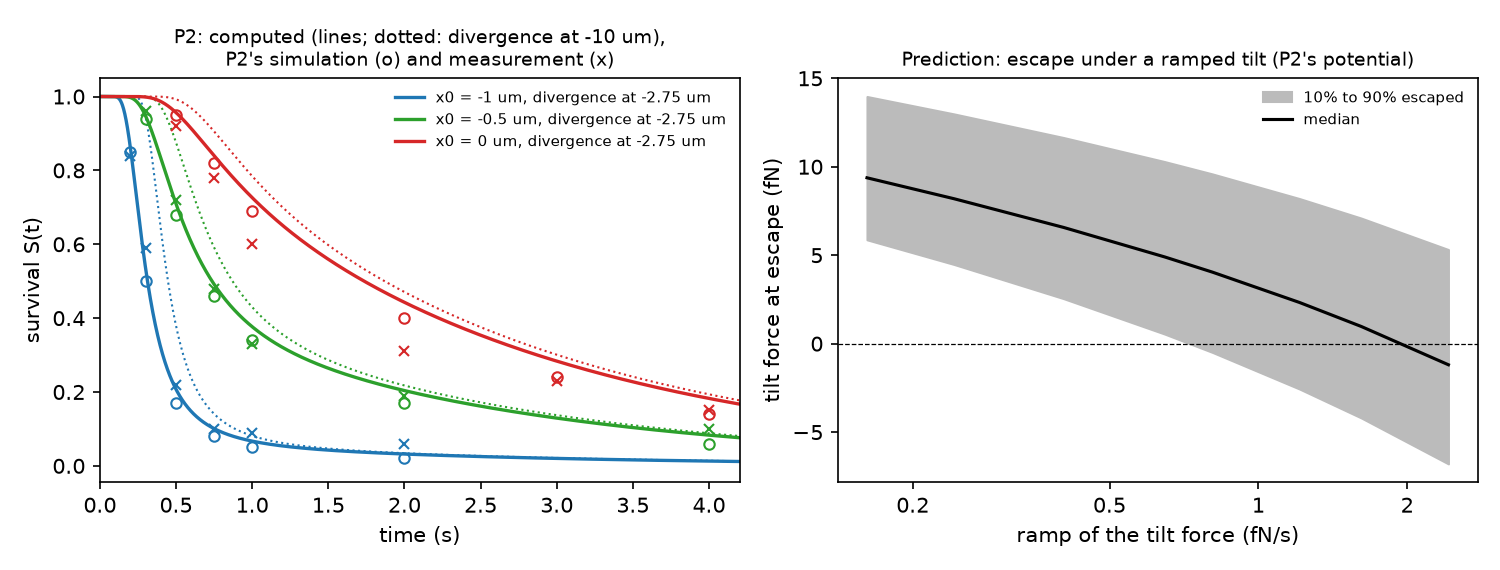
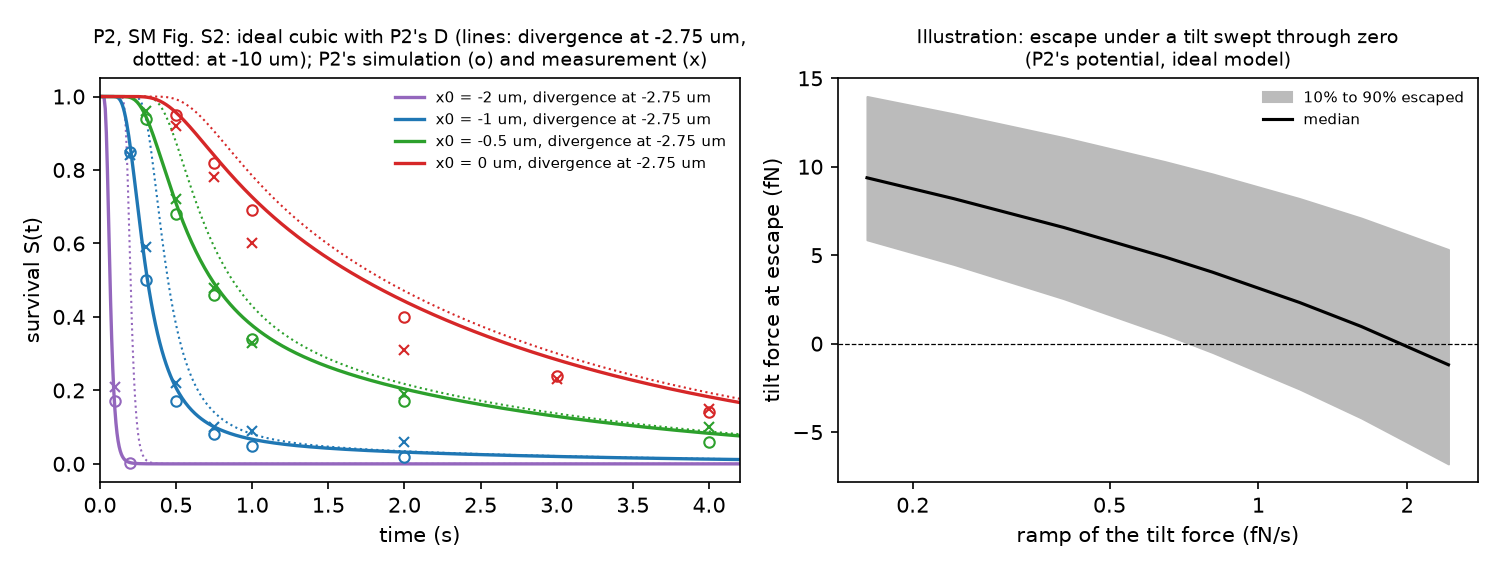
Revise the Brno case after the second model's review
All four simulated survival curves, with error summaries for both
divergence points and the best D for -10 um; the stated criterion is
reported as not reproduced, without claiming which boundary was used.
Reading B is presented as a hypothesis. P1's 8 s limit is computed: under
reading B the ideal model gives mean/SD 2.300, P1's simulation 2.32. The
lambda0 D is described as reconstructing P2's friction. The swept-tilt
section is an illustration in the ideal model, with times to the 90%
point and the shifts of the median.

diff --git a/cases/brno_cubic_trap/reproduce.py b/cases/brno_cubic_trap/reproduce.py
@@ -9,12 +9,13 @@ Model (P1 Eq. 1, P2 Eq. 1): overdamped bead, V(x) = mu x^3 / 3, D = kT / gamma.
 Numbers labelled "printed" or "read" come from the papers (figure readings to the stated
 precision); everything else is computed here with kramers' quadrature and Fokker-Planck solvers.
 
-    python cases/brno_cubic_trap/reproduce.py        (about two minutes; writes figure.png)
+    python cases/brno_cubic_trap/reproduce.py        (a few minutes; writes figure.png)
 """
 
 from pathlib import Path
 
 import numpy as np
+from scipy.optimize import minimize_scalar
 
 from kramers.formulas import fold_decay_rate, ramped_fold_switching
 from kramers.solvers import FirstPassage1D, fokker_planck
@@ -28,10 +29,23 @@ def moments(mu, x0, x_abs, D=1.0):
     return fp.moments(x0, n=2).value
 
 
-def survival(mu, D, x0, x_abs, t_end):
-    sol = fokker_planck.solve(lambda x: -D * mu * x * x, D, (x_abs, 3.0), left="absorbing", right="reflecting",
+def survival(mu, x0, x_abs, t_end):
+    """S(t) at D = 1; for another D, S(t; D) = S(D t; 1) (time scales with 1/D at fixed geometry)."""
+    sol = fokker_planck.solve(lambda x: -mu * x * x, 1.0, (x_abs, 3.0), left="absorbing", right="reflecting",
                               x0=x0, t_end=t_end, n_cells=2000, dt=t_end / 3000)
     return sol.t, sol.survival
+
+
+def censored(mu, D, x0, x1, t_cut):
+    """Mean and mean/SD of tau(x0 -> x1) among passages completed by t_cut (unfinished runs discarded),
+    and the fraction completed."""
+    sol = fokker_planck.solve(lambda x: -D * mu * x * x, D, (x1, 2.5), left="absorbing", right="reflecting",
+                              x0=x0, t_end=t_cut, n_cells=2000, dt=t_cut / 4000)
+    dF = np.diff(sol.absorbed_left)
+    tm = 0.5 * (sol.t[1:] + sol.t[:-1])
+    F = dF.sum()
+    m1, m2 = (tm * dF).sum() / F, (tm * tm * dF).sum() / F
+    return m1, m1 / np.sqrt(m2 - m1 * m1), F
 
 
 # ---------------------------------------------------------------- P1, Sci. Rep. 2017
@@ -39,6 +53,7 @@ print("P1. x0 = 1.2 um (Fig. 4; Fig. 1 marks about 1.47), x1 = -2.1 um, mu3 = 6.
 print("    Measured (Fig. 4, read; N = 26): <tau(x0->0)> = 1.16 +- 0.14 s, <tau(x0->x1)> = 3.61 +- 0.29 s, R = 0.32 +- 0.05,")
 print("    mean/SD of tau(x0->x1) = 2.3 +- 1.6; their simulation at these points: 1.62 (2.32 cut at 8 s).")
 D_stokes = KT / (6 * np.pi * 0.95e-3 * 0.497e-6) * 1e12  # um^2/s: water at 22 C assumed; radius 0.497 um printed
+print("\n    Values below are for the ideal model with no time limit, unless marked.")
 print("\n    Reading A: mu3 is the potential itself; D is free.")
 for x0 in (1.2, 1.47):
     t0, _ = moments(6.65, x0, 0.0)
@@ -46,14 +61,25 @@ for x0 in (1.2, 1.47):
     print(f"      x0 = {x0}: R = {t0 / t1:.3f}, mean/SD = {t1 / np.sqrt(s1 - t1 * t1):.3f}; the measured means need "
           f"D = {t0 / 1.16:.3f} +- {0.14 / 1.16 * t0 / 1.16:.3f} and {t1 / 3.61:.3f} +- {0.29 / 3.61 * t1 / 3.61:.3f} um^2/s "
           f"(a wall factor of {D_stokes / (t1 / 3.61):.1f} against the Stokes value {D_stokes:.3f})")
-print("\n    Reading B (P1 Methods: the drift was measured near the wall, the wall factor gamma_c enters only the noise):")
-print("    drift coefficient kappa = 6.65 x D_Stokes fixed; D = D_Stokes / gamma_c; effective mu = 6.65 gamma_c.")
+print("\n    Reading B, a calibration hypothesis: IF the printed 6.65 is the measured drift coefficient kappa divided by")
+print("    D_Stokes, and the wall factor gamma_c enters only the noise (as P1 Methods suggests), then")
+print("    D = D_Stokes / gamma_c and the effective mu = 6.65 gamma_c. (Fig. 1 calls 6.65 the potential coefficient,")
+print("    which is reading A; the paper does not say enough to choose.)")
 print("      gamma_c   <tau(x0->0)>   <tau(x0->x1)>    R      mean/SD    (x0 = 1.2; times scale with the assumed D_Stokes)")
 for gc in (2.0, 3.0, 4.2, 4.6):
     t0, _ = moments(6.65 * gc, 1.2, 0.0, D_stokes / gc)
     t1, s1 = moments(6.65 * gc, 1.2, -2.1, D_stokes / gc)
     print(f"        {gc:3.1f}       {t0:6.3f} s       {t1:6.3f} s      {t0 / t1:.3f}    {t1 / np.sqrt(s1 - t1 * t1):.3f}")
 print("    Asymptotic values for distant points (P3 Eqs. 27, 32): R = 1/3, mean/SD = sqrt(3) = 1.732.")
+print("\n    With P1's 8 s limit (runs not finished by 8 s discarded; our assumption about the measurement), x0 = 1.2:")
+t1A, _ = moments(6.65, 1.2, -2.1)
+for label, mu_, D_ in (("reading A, D from the measured <tau(x0->x1)>", 6.65, t1A / 3.61),
+                       ("reading B, gamma_c = 4.6", 6.65 * 4.6, D_stokes / 4.6)):
+    m0, _, F0 = censored(mu_, D_, 1.2, 0.0, 8.0)
+    m1, r, F1 = censored(mu_, D_, 1.2, -2.1, 8.0)
+    print(f"      {label}: <tau(x0->0)> = {m0:.3f} s, <tau(x0->x1)> = {m1:.3f} s, R = {m0 / m1:.3f}, "
+          f"mean/SD = {r:.3f}; finished by 8 s: {F0:.3f} and {F1:.3f}")
+print("    P1's simulation with the 8 s limit: mean/SD = 2.32; measured: 1.16 s, 3.61 s, R = 0.32, mean/SD = 2.3.")
 
 # ---------------------------------------------------------------- P2, PRL 2018
 print("\nP2. mu = 4.07 +- 0.03 kT/um^3 and lambda0 = 0.44 +- 0.01 1/s (printed); D not printed.")
@@ -61,39 +87,62 @@ E0 = fold_decay_rate(0.0)
 D2 = 0.44 / (E0 * 4.07 ** (2.0 / 3.0))
 print(f"    lambda0 = E0(0) D mu^(2/3) with E0(0) = {E0:.6f} gives D = {D2:.4f} +- {0.01 / 0.44 * D2:.4f} um^2/s "
       f"(Stokes, 1 um bead, water, 22 C: {KT / (6 * np.pi * 0.95e-3 * 0.5e-6) * 1e12:.3f}).")
-sims = {  # SM Fig. S2, simulated (dashed) and measured S(t), read from the plot to +-0.005
+sims = {  # SM Fig. S2, simulated (dashed) and measured S(t), read from the plot to +-0.005 (nan: not read)
+    -2.0: ((0.1, 0.2), (0.17, 0.003), (0.21, np.nan)),
     -1.0: ((0.2, 0.3, 0.5, 0.75, 1.0, 2.0), (0.85, 0.50, 0.17, 0.08, 0.05, 0.02), (0.84, 0.59, 0.22, 0.10, 0.09, 0.06)),
     -0.5: ((0.3, 0.5, 0.75, 1.0, 2.0, 4.0), (0.94, 0.68, 0.46, 0.34, 0.17, 0.06), (0.96, 0.72, 0.48, 0.33, 0.19, 0.10)),
     0.0: ((0.5, 0.75, 1.0, 2.0, 3.0, 4.0), (0.95, 0.82, 0.69, 0.40, 0.24, 0.14), (0.92, 0.78, 0.60, 0.31, 0.23, 0.15)),
 }
-curves = {}
-print("    Survival S(t) with divergence counted at a = -10 um (as we read the text) and at a = -2.75 um (SM Fig. S3):")
+unit = {a: {x0: survival(4.07, x0, a, 4.0) for x0 in sims} for a in (-10.0, -2.75)}  # D = 1
+
+
+def S_at(a, x0, t, D):
+    tt, S = unit[a][x0]
+    return np.interp(D * np.asarray(t), tt, S)
+
+
+def errors(a, D):
+    d = np.concatenate([S_at(a, x0, t, D) - np.array(s_sim) for x0, (t, s_sim, _) in sims.items()])
+    return float(np.sqrt(np.mean(d * d))), float(np.max(np.abs(d)))
+
+
+print("    Survival S(t) with divergence counted at a = -10 um (as the SM states) and at a = -2.75 um:")
 print("      x0     t(s)   a=-10    a=-2.75    P2 sim.   P2 meas.")
 for x0, (t, s_sim, s_meas) in sims.items():
-    tt, S10 = survival(4.07, D2, x0, -10.0, 6.0)
-    tt2, S275 = survival(4.07, D2, x0, -2.75, 6.0)
-    curves[x0] = (tt2, S275, tt, S10)
-    for ti, a, b, c, d in zip(t, np.interp(t, tt, S10), np.interp(t, tt2, S275), s_sim, s_meas, strict=True):
-        print(f"      {x0:5.2f}  {ti:4.2f}   {a:.3f}     {b:.3f}      {c:.2f}      {d:.2f}")
+    for ti, a, b, c, d in zip(t, S_at(-10.0, x0, t, D2), S_at(-2.75, x0, t, D2), s_sim, s_meas, strict=True):
+        print(f"      {x0:5.2f}  {ti:4.2f}   {a:.3f}     {b:.3f}      {c:.3f}     {d:.2f}")
+for a in (-2.75, -10.0):
+    rms, mx = errors(a, D2)
+    print(f"    Against all {sum(len(v[0]) for v in sims.values())} simulated points, a = {a:g}, D = {D2:.4f}: "
+          f"RMS error {rms:.3f}, largest {mx:.3f}")
+best = minimize_scalar(lambda D: errors(-10.0, D)[0], bounds=(0.2, 2.0), method="bounded", options={"xatol": 1e-6})
+rms, mx = errors(-10.0, best.x)
+print(f"    a = -10 with the D that fits best ({best.x:.3f} um^2/s): RMS error {rms:.3f}, largest {mx:.3f}; "
+      f"at x0 = -2, t = 0.1 s it gives S = {float(S_at(-10.0, -2.0, 0.1, best.x)):.2f} against 0.17.")
 
 # ---------------------------------------------------------------- the ramp
 ell = 4.07 ** (-1.0 / 3.0)  # um
 tau = ell * ell / D2  # s
 f_unit = KT / (ell * 1e-6) * 1e15  # fN
 y_esc = 2.75 / ell
-print(f"\nThe ramp nobody has measured, in P2's potential: tilt lowered linearly to zero (the fold) at scaled rate Sigma.")
-print(f"    Units: length {ell:.3f} um, time {tau:.3f} s, tilt force {f_unit:.2f} fN; start 4 units from the fold "
-      f"({4 * f_unit:.1f} fN, well at {2 * ell:.2f} um, inside the calibrated range); escape at -2.75 um.")
-print("      Sigma   tilt at which 10% / 50% / 90% have escaped (fN)   quasi-static median   ramp (fN/s)   run length (s)")
+print("\nAn illustrative extension not studied in P1-P3: V(x) = mu x^3/3 - f(t) x, with the tilt f swept linearly")
+print("through zero (the fold) at scaled rate Sigma, in P2's potential and with P2's D.")
+print(f"    Units: length {ell:.4f} um, time {tau:.4f} s, tilt force {f_unit:.3f} fN; start 4 units from the fold "
+      f"({4 * f_unit:.1f} fN: well at {2 * ell:.3f} um, saddle at {-2 * ell:.3f} um, barrier {4 / 3 * 8:.2f} kT), "
+      "from the quasi-stationary density; escape at -2.75 um.")
+print("      Sigma   ramp (fN/s)   tilt at 10% / 50% / 90% escaped (fN)   quasi-static median (fN)   median shift   "
+      "time to the 90% point (s)")
 u_grid = np.linspace(4.0, 0.0, 401)
 lam = fold_decay_rate(u_grid)
 for sigma in (0.02, 0.05, 0.1, 0.3):
     u = ramped_fold_switching(sigma, (0.1, 0.5, 0.9), u0=4.0, y_escape=y_esc)
     H = np.concatenate([[0.0], np.cumsum(0.5 * (lam[1:] + lam[:-1]) * (-np.diff(u_grid)))]) / sigma
     qs = float(np.interp(np.log(2.0), H, u_grid)) if H[-1] > np.log(2.0) else float("nan")
-    print(f"      {sigma:5.2f}    {u[0] * f_unit:6.2f} / {u[1] * f_unit:6.2f} / {u[2] * f_unit:6.2f}               "
-          f"{qs * f_unit:6.2f}            {sigma * f_unit / tau:.3f}         {4.0 / sigma * tau:.0f}")
-print("    Negative tilt: past the fold. The quasi-static column integrates the frozen escape rate (entry K0024 with K0008).")
+    print(f"      {sigma:5.2f}   {sigma * f_unit / tau:6.3f}      {u[0] * f_unit:6.2f} / {u[1] * f_unit:6.2f} / "
+          f"{u[2] * f_unit:6.2f}             {qs * f_unit:6.2f}               {(u[1] - qs) / qs:+7.1%}         "
+          f"{(4.0 - u[2]) / sigma * tau:6.1f}")
+print("    Negative tilt: past the fold. The quasi-static column integrates the frozen escape rate (K0024 with K0008).")
+print("    The tilted potentials were not calibrated in P2; whether the trap can sweep the tilt this way is untested.")
 
 # ---------------------------------------------------------------- figure
 try:
@@ -101,17 +150,18 @@ try:
     matplotlib.use("Agg")
     import matplotlib.pyplot as plt
     fig, ax = plt.subplots(1, 2, figsize=(10, 3.8))
-    colors = {-1.0: "#1f77b4", -0.5: "#2ca02c", 0.0: "#d62728"}
+    colors = {-2.0: "#9467bd", -1.0: "#1f77b4", -0.5: "#2ca02c", 0.0: "#d62728"}
+    tfig = np.linspace(0.0, 4.2, 600)
     for x0, (t, s_sim, s_meas) in sims.items():
-        tt2, S275, tt, S10 = curves[x0]
-        ax[0].plot(tt2, S275, color=colors[x0], lw=1.6, label=f"x0 = {x0:g} um, divergence at -2.75 um")
-        ax[0].plot(tt, S10, color=colors[x0], lw=1.0, ls=":")
+        ax[0].plot(tfig, S_at(-2.75, x0, tfig, D2), color=colors[x0], lw=1.6, label=f"x0 = {x0:g} um, divergence at -2.75 um")
+        ax[0].plot(tfig, S_at(-10.0, x0, tfig, D2), color=colors[x0], lw=1.0, ls=":")
         ax[0].plot(t, s_sim, "o", mfc="none", color=colors[x0], ms=5)
         ax[0].plot(t, s_meas, "x", color=colors[x0], ms=5)
     ax[0].set_xlim(0, 4.2)
     ax[0].set_xlabel("time (s)")
     ax[0].set_ylabel("survival S(t)")
-    ax[0].set_title("P2: computed (lines; dotted: divergence at -10 um),\nP2's simulation (o) and measurement (x)", fontsize=9)
+    ax[0].set_title("P2, SM Fig. S2: ideal cubic with P2's D (lines: divergence at -2.75 um,\n"
+                    "dotted: at -10 um); P2's simulation (o) and measurement (x)", fontsize=9)
     ax[0].legend(fontsize=7, frameon=False)
     sig = np.array([0.02, 0.03, 0.05, 0.08, 0.1, 0.15, 0.2, 0.3])
     q = np.array([ramped_fold_switching(s, (0.1, 0.5, 0.9), u0=4.0, y_escape=y_esc) for s in sig]) * f_unit
@@ -124,7 +174,7 @@ try:
     ax[1].minorticks_off()
     ax[1].set_xlabel("ramp of the tilt force (fN/s)")
     ax[1].set_ylabel("tilt force at escape (fN)")
-    ax[1].set_title("Prediction: escape under a ramped tilt (P2's potential)", fontsize=9)
+    ax[1].set_title("Illustration: escape under a tilt swept through zero\n(P2's potential, ideal model)", fontsize=9)
     ax[1].legend(fontsize=7, frameon=False)
     fig.tight_layout()
     out = Path(__file__).with_name("figure.png")

diff --git a/cases/brno_cubic_trap/case.md b/cases/brno_cubic_trap/case.md
@@ -1,103 +1,139 @@
 # Case: a bead in a cubic optical potential (Brno, Olomouc, Prague)
 
-Two experiments by the groups of P. Zemánek (Institute of Scientific Instruments, Brno),
-R. Filip (Palacký University, Olomouc) and A. Ryabov (Charles University, Prague) are
-the only ones we found that build the potential of a noisy saddle-node exactly at its
-bifurcation, V(x) = μx³/3, around a microsphere in optical tweezers:
+Two related experiments by the groups of P. Zemánek (Institute of Scientific
+Instruments, Brno), R. Filip (Palacký University, Olomouc) and A. Ryabov (Charles
+University, Prague) approximate the cubic normal form near an inflection,
+V(x) = μx³/3, around a microsphere in optical tweezers:
 
 - **P1.** M. Šiler, P. Jákl, O. Brzobohatý, A. Ryabov, R. Filip and P. Zemánek,
   *Sci. Rep.* **7**, 1697 (2017), doi:10.1038/s41598-017-01848-4 (open access).
 - **P2.** M. Šiler, L. Ornigotti, O. Brzobohatý, P. Jákl, A. Ryabov, V. Holubec,
   P. Zemánek and R. Filip, *Phys. Rev. Lett.* **121**, 230601 (2018),
-  doi:10.1103/PhysRevLett.121.230601; arXiv:1803.07833v2 and its supplement.
+  doi:10.1103/PhysRevLett.121.230601; arXiv:1803.07833v2 and its supplement (SM).
 - Theory: A. Ryabov, P. Zemánek and R. Filip, *Phys. Rev. E* **94**, 042108 (2016)
   (P3), whose Eq. (6) is the exact mean first-passage time used below.
 
-Everything below is recomputed from the printed parameters by `reproduce.py` (about
-two minutes); its output is in `output.txt`. Numbers read from figures carry the
-precision of the reading. **This page is a draft for the authors to correct. Nothing
-here says their analysis is wrong; where we disagree, the most likely reason is that
-we misread the set-up, and we say what we assumed.**
+Everything below is recomputed from the printed parameters by `reproduce.py` (a few
+minutes); its output is in `output.txt`. Numbers read from figures carry the precision
+of the reading. Computed values are for the ideal model, an overdamped bead with
+constant D in an exact cubic potential, and are numerically converged within that
+model; nothing is fitted to the data unless the text says so. **This page is a draft
+for the authors to correct. Where our numbers differ from theirs, the likeliest reason
+is a detail of the set-up that we have not reconstructed; we say what we assumed.**
 
-## 1. What P1 measured, and the exact quadrature at the experimental points
+## 1. P1: the mean first-passage times at the experimental points
 
 P1 releases the bead at x0 = 1.2 µm (Fig. 4; Fig. 1 marks about 1.47 µm) and records
-the first passages to 0 and to x1 = −2.1 µm, with μ3 = 6.65 ± 0.05 kT µm⁻³. From the
-26 points in Fig. 4: ⟨τ(x0→0)⟩ = 1.16 ± 0.14 s, ⟨τ(x0→x1)⟩ = 3.61 ± 0.29 s, ratio
-R = 0.32 ± 0.05 (printed), mean/SD of τ(x0→x1) = 2.3 ± 1.6 (printed). P1 compares R
-with 1/3 and mean/SD with √3, the values for distant points (P3 Eqs. 27, 32), and with
-simulations.
+the first passages to 0 and to x1 = −2.1 µm, with μ3 = 6.65 ± 0.05 kT µm⁻³. From the 26
+points in Fig. 4: ⟨τ(x0→0)⟩ = 1.16 ± 0.14 s and ⟨τ(x0→x1)⟩ = 3.61 ± 0.29 s; printed:
+R = ⟨τ(x0→0)⟩/⟨τ(x0→x1)⟩ = 0.32 ± 0.05 and mean/SD of τ(x0→x1) = 2.3 ± 1.6. Runs lasted
+8 s. P1 compares R with 1/3 and mean/SD with √3, the values for distant points (P3
+Eqs. 27, 32), and with simulations, which give mean/SD = 1.62 without a time limit and
+2.32 with the 8 s limit.
 
-P3's Eq. (6), evaluated exactly at the experimental points (quadrature solver of this
-package, accurate to about 1e-12):
+The printed 6.65 can be read in two ways, and the paper does not say enough to choose:
 
-| | R = ⟨τ(x0→0)⟩/⟨τ(x0→x1)⟩ | mean/SD of τ(x0→x1) |
+- **Reading A.** 6.65 kT µm⁻³ is the potential itself (Fig. 1 calls it the
+  reconstructed potential coefficient); D is not printed and is left free.
+- **Reading B, a calibration hypothesis.** P1's Methods suggest that the drift was
+  measured near the surface, so that the wall factor γc enters only the noise. *If* the
+  printed 6.65 is that measured drift coefficient divided by the Stokes value of D,
+  then D = D_Stokes/γc and the effective μ is 6.65 γc. We take γc = 4.6, the value P1
+  fitted.
+
+P3's Eq. (6), and the same model with P1's 8 s limit (passages not finished by 8 s
+discarded, which is our assumption about how the measurement was treated):
+
+| x0 = 1.2 µm unless stated | R | mean/SD of τ(x0→x1) |
 |---|---|---|
 | Measured (P1) | 0.32 ± 0.05 | 2.3 ± 1.6 |
 | Distant points (P3) | 1/3 | 1.732 |
-| P1's own simulation at the experimental points | not given | 1.62 |
-| Exact, x0 = 1.2 µm, μ3 = 6.65 taken as the potential (reading A) | 0.287 | 1.495 |
-| Exact, x0 = 1.47 µm, reading A | 0.299 | 1.520 |
-| Exact, x0 = 1.2 µm, drift measured and γc = 4.6 in the noise only (reading B) | 0.306 | 1.587 |
+| P1's simulation, no time limit / 8 s limit | not given | 1.62 / 2.32 |
+| Ideal model, reading A, no time limit | 0.287 | 1.495 |
+| Ideal model, reading A, x0 = 1.47 µm, no time limit | 0.299 | 1.520 |
+| Ideal model, reading A, 8 s limit (D = 0.336 µm²/s, fitted below without the limit) | 0.325 | 1.906 |
+| Ideal model, reading B, no time limit | 0.306 | 1.587 |
+| Ideal model, reading B, 8 s limit | 0.373 | 2.300 |
 
-The exact ratio at the experimental points is 0.29 to 0.31, below the asymptotic 1/3
-and well within the measured 0.32 ± 0.05. Reading B reproduces P1's simulated mean/SD
-(1.62) to 2%.
+Without a time limit, R at the experimental points is 0.29 to 0.31 in the ideal model,
+below the asymptotic 1/3 and within the measured 0.32 ± 0.05, and it does not depend
+on D. With the 8 s limit it does (0.325 and 0.373 above). Under reading B the model gives 1.587 without and 2.300 with the 8 s limit,
+close to P1's own simulations (1.62 and 2.32). This suggests that reading B is the
+model P1 simulated; it remains our reconstruction. The time limit, not the distance of
+the points, moves mean/SD from about 1.6 to about 2.3.
 
-**What we could not settle.** The absolute times need the bead's diffusion coefficient,
-which P1 does not print. Under reading A (μ3 is the potential in kT, D free), the
-measured means require D = 0.30 to 0.34 µm²/s, a wall factor of about 1.4 against the
-Stokes value for a 994 nm bead in water at 22 °C (0.458 µm²/s; our assumption). P1
-reports γc = 4.2 ± 0.3 and 4.6 ± 0.2. Under reading B (P1 Methods: the drift was
-measured near the surface, so the wall factor enters only the noise), γc = 4.6 gives
-1.43 s and 4.69 s, about 25% longer than measured; both scale with the assumed
-viscosity and temperature, which P1 does not state.
+**The absolute times.** They need D. Under reading A, the measured means require
+D = 0.30 to 0.34 µm²/s without a time limit, a wall factor of about 1.4 against the
+Stokes value for a 994 nm bead in water at 22 °C (0.458 µm²/s; temperature and
+viscosity are our assumptions). Under reading B, without a time limit, the model's
+means are 1.43 s and 4.69 s, 24% and 30% above the measured 1.16 s and 3.61 s; with the
+8 s limit they are 1.43 s and 3.84 s, 24% and 6% above (the second within the measured
+error, the first about two standard errors out). Every estimate of D from these means depends on how
+unfinished runs, the release position and the time origin were handled, none of which
+is printed.
 
-## 2. What P2 simulated, reproduced
+## 2. P2: the simulated survival curves
 
 P2 gives μ = 4.07 ± 0.03 kT µm⁻³ and a quasi-stationary decay rate λ0 = 0.44 ± 0.01 s⁻¹,
 but not D. For V = μx³/3 the decay rate is λ0 = E0(0) D μ^(2/3), with
-E0(0) = 0.354123... (entry K0008), so P2's λ0 implies **D = 0.487 ± 0.011 µm²/s**, 7%
-above the Stokes value for a 1 µm bead in water at 22 °C (0.455).
+E0(0) = 0.354123... (entry K0008), so P2's λ0 corresponds to D = 0.487 ± 0.011 µm²/s.
+P2 computed λ0 from its Eq. (3) with a friction coefficient it does not print, so this
+D reconstructs P2's assumed friction; it is not an independent measurement.
 
-With that D, the survival curves of P2's simulations (SM Fig. S2, read to ±0.005) are
-reproduced to within 0.05 (most points within 0.03) **if divergence is counted at
-about −2.75 µm**, the absorbing boundary used in SM Fig. S3; with −10 µm, which is how
-we read the text, they are not (deviations up to 0.45, at x0 = −1 µm and t = 0.3 s). See
+The SM states that the dashed curves of SM Fig. S2 simulate the ideal cubic, with a
+trajectory counted as diverged when it crosses −10 µm. We solved the same model with
+the D above, for all four curves (20 points read from the plot to ±0.005):
+
+| Divergence counted at | D (µm²/s) | RMS error | Largest error |
+|---|---|---|---|
+| −10 µm, as stated | 0.487 | 0.257 | 0.830 |
+| −10 µm | 0.962 (best fit) | 0.173 | 0.387 |
+| −2.75 µm | 0.487 | 0.029 | 0.044 |
+
+No choice of D reproduces the curves with −10 µm: at the best D the curve from
+x0 = −2 µm still has S = 0.56 at t = 0.1 s, against 0.17. With divergence counted at
+about −2.75 µm (the outermost absorbing boundary used in SM Fig. S3) and P2's own D,
+they agree to within the reading precision plus a few hundredths. **Our solution is
+therefore inconsistent with the stated −10 µm criterion but agrees numerically with an
+effective boundary near −2.75 µm. This points to a convention or implementation detail
+that we have not reconstructed; we do not claim to know which boundary was used.** See
 the left panel of `figure.png`.
 
-## 3. A measurement not yet made: escape under a ramped tilt
+## 3. An illustrative extension not studied in P1–P3: a tilt swept through the fold
 
-If a linear tilt f is added to P2's potential and lowered at a constant rate to zero
-(the fold), the bead escapes at a tilt that depends on one number, the ramp rate in
-units of kT/(ℓτ) with ℓ = μ^(−1/3) = 0.626 µm and τ = ℓ²/D = 0.805 s. Computed with the
-time-dependent Fokker-Planck equation (entry K0030), starting 26 fN from the fold (well
-at 1.25 µm, inside P2's calibrated range) and counting escape at −2.75 µm:
+Add a linear tilt to P2's potential, V(x) = μx³/3 − f(t)x, and sweep f linearly through
+zero, where the well disappears (the fold). In the ideal model the tilt at which the
+bead escapes depends on one number, the sweep rate in units of kT/(ℓτ), with
+ℓ = μ^(−1/3) = 0.626 µm and τ = ℓ²/D = 0.805 s (P2's μ and D). Computed with the
+time-dependent Fokker-Planck equation (entry K0030), starting 26 fN from the fold from
+the quasi-stationary density (well at 1.25 µm, saddle at −1.25 µm, barrier 10.7 kT) and
+counting escape at −2.75 µm:
 
-| Ramp of the tilt (fN/s) | Tilt at which 10% / 50% / 90% have escaped (fN) | Quasi-static median (fN) | One run (s) |
-|---|---|---|---|
-| 0.16 | 14.0 / 9.4 / 5.9 | 9.5 | 161 |
-| 0.40 | 11.7 / 6.6 / 2.5 | 6.9 | 64 |
-| 0.81 | 9.6 / 4.0 / −0.5 | 4.7 | 32 |
-| 2.42 | 5.3 / −1.2 / −6.8 | 0.5 | 11 |
+| Sweep (fN/s) | Tilt at which 10% / 50% / 90% have escaped (fN) | Quasi-static median (fN) | Shift of the median | Time to the 90% point (s) |
+|---|---|---|---|---|
+| 0.16 | 14.0 / 9.4 / 5.9 | 9.5 | −1.4% | 125 |
+| 0.40 | 11.7 / 6.6 / 2.5 | 6.9 | −4.6% | 58 |
+| 0.81 | 9.6 / 4.0 / −0.5 | 4.7 | −13% | 33 |
+| 2.42 | 5.3 / −1.2 / −6.8 | 0.5 | changes sign | 14 |
 
-Negative values: the bead escapes after the fold. At the faster ramps the frozen-rate
-(quasi-static) picture, the standard one for switching under a ramp, is visibly wrong,
-and most beads leave only after the potential has lost its well. One thousand runs
-take 3 to 45 hours.
+Negative tilts are past the fold. The quasi-static median uses the frozen escape rate
+(entry K0024 with K0008). At the fastest sweep shown, the median escape comes after the
+fold, where the quasi-static picture puts it before. This is a calculation in the ideal
+model: P2 did not calibrate tilted potentials, and whether the trap can realise such a
+sweep is an open question.
 
 ## 4. Questions for the authors
 
-1. In P1, is μ3 = 6.65 kT µm⁻³ the potential itself (the measured drift converted with
-   γ0γc), or the drift coefficient converted with the bulk drag γ0? At what
-   temperature and viscosity?
-2. In P1, is x0 = 1.2 µm (Fig. 4 caption) or about 1.47 µm (Fig. 1), and is τ timed
-   from the switch to the cubic potential or from the first crossing of x0?
-3. In P2's SM Fig. S2, at which position was a trajectory counted as diverged, in the
-   simulation and in the measurement?
-4. Would data you already hold test the ramp of section 3, or is it worth a
-   measurement?
+1. In P1, is μ3 = 6.65 kT µm⁻³ the potential itself, or the measured drift coefficient
+   converted with the bulk drag? At what temperature and viscosity?
+2. In P1, is x0 = 1.2 µm (Fig. 4 caption) or about 1.47 µm (Fig. 1); is τ timed from
+   the switch to the cubic potential or from the first crossing of x0; and were runs not
+   finished by 8 s left out of the measured means?
+3. What exact drift or potential, D or γ, time origin and divergence criterion were used
+   to generate the dashed curves in SM Fig. S2? The stated ideal cubic with divergence
+   at −10 µm does not reproduce them in our solution.
+4. Would data you already hold test a swept tilt, or is it worth a measurement?
 
 *Prepared with the kramers package. Code and text written largely with AI tools
-(Claude, Anthropic) under the direction of Alexander Sokol; the computations are
-reproducible with `reproduce.py`.*
+(Claude, Anthropic) under the direction of Alexander Sokol, and reviewed by a second
+AI model (GPT-6 Astra, OpenAI); the computations are reproducible with `reproduce.py`.*
